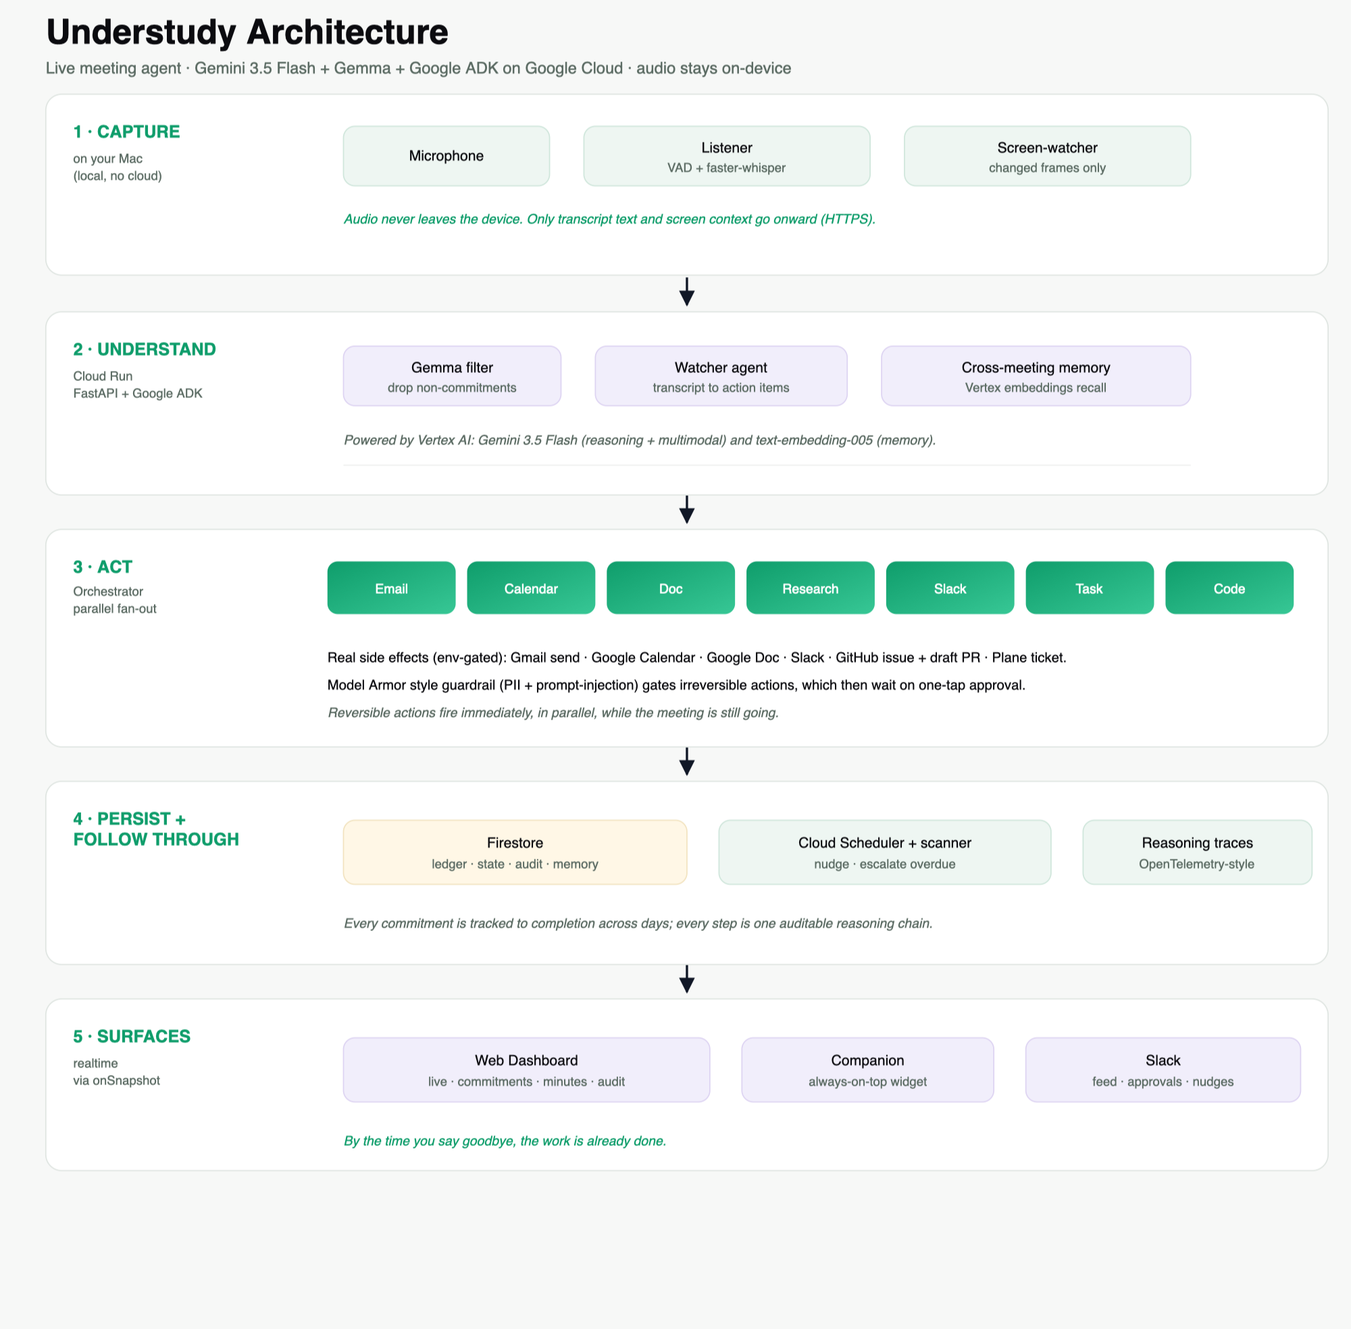
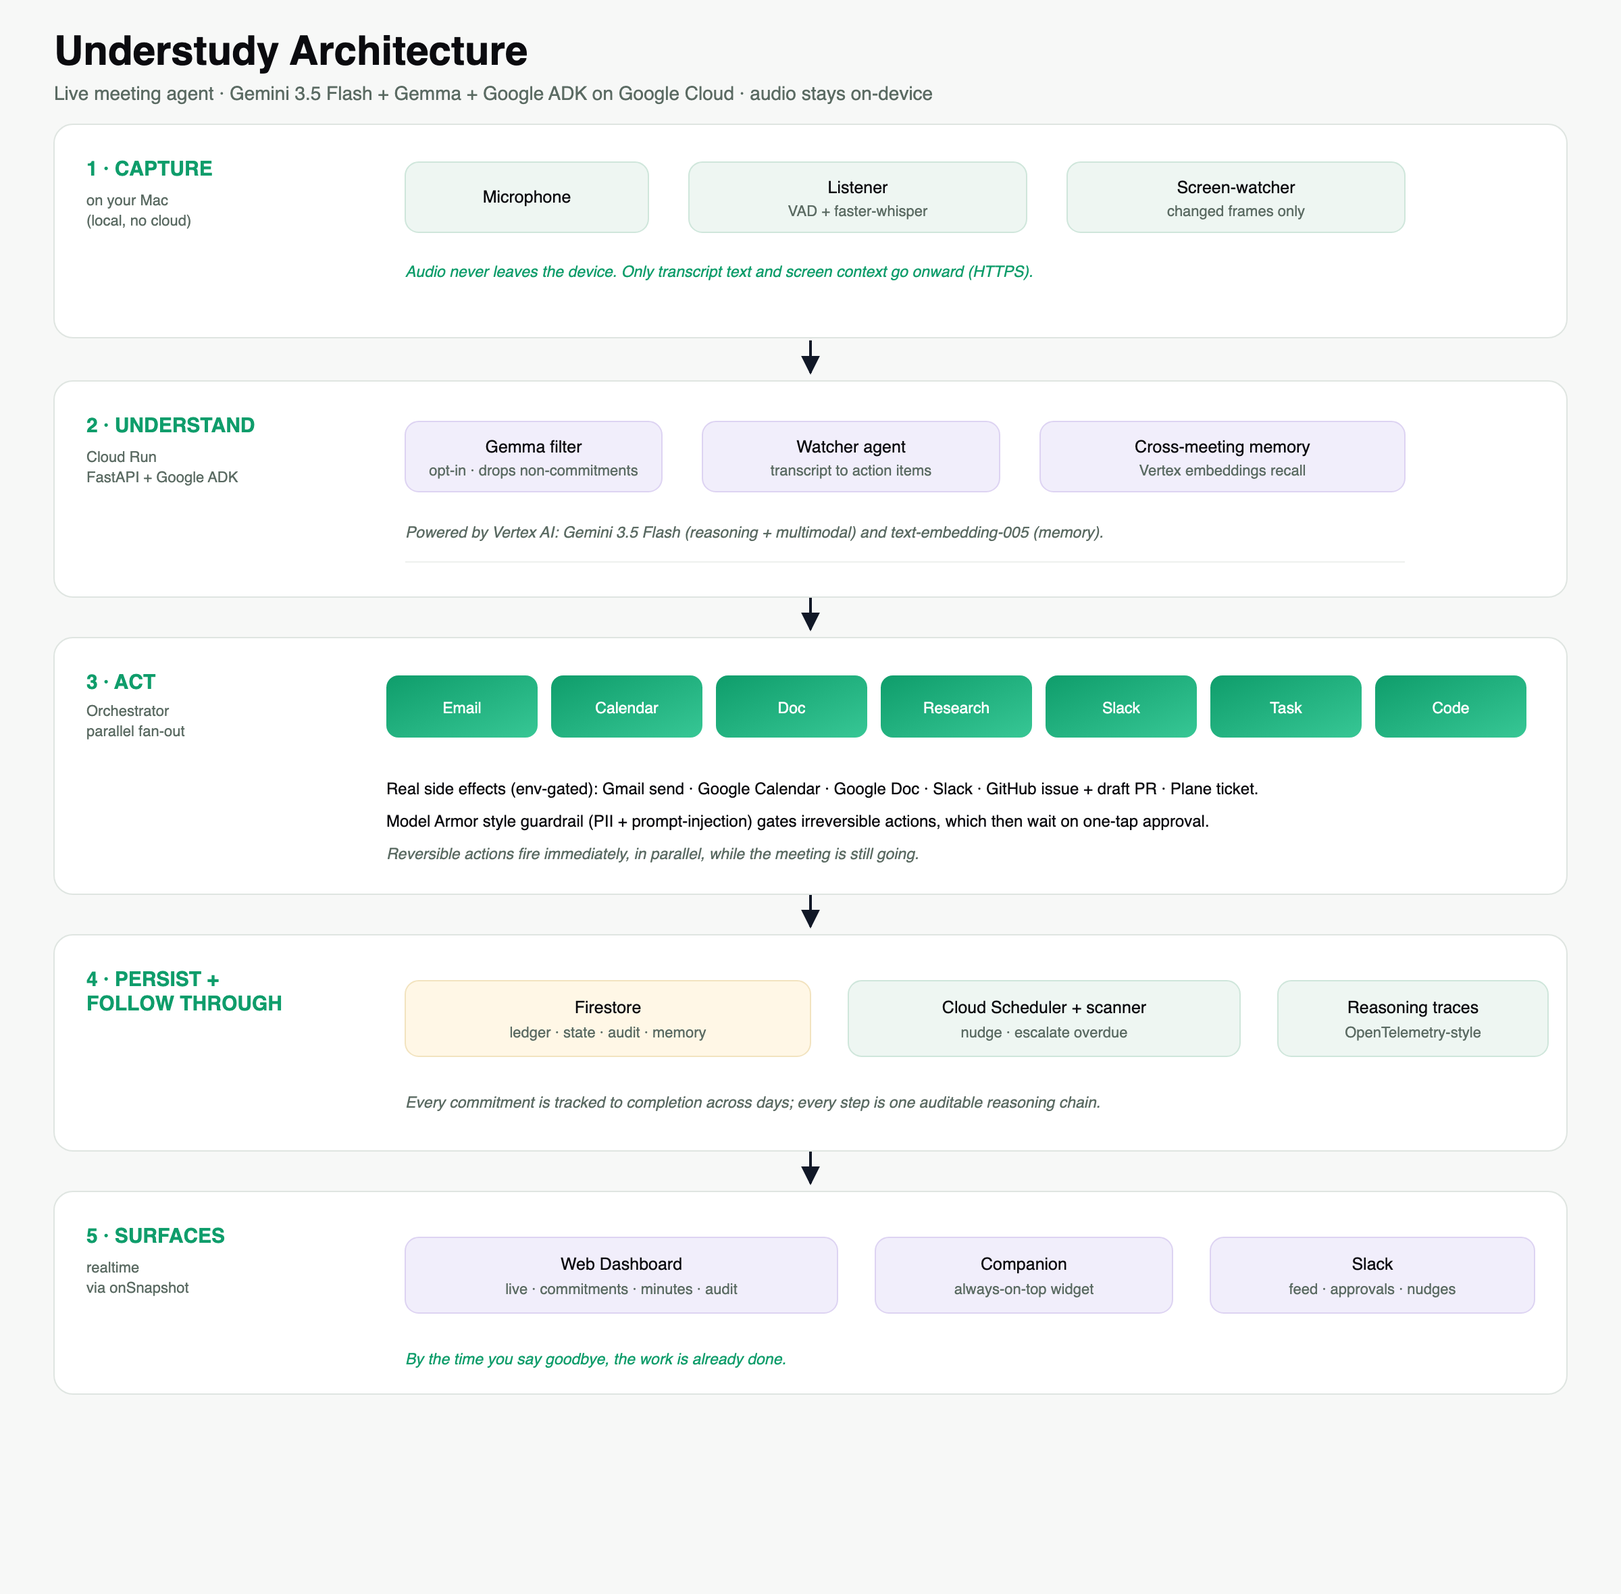
Wire hosted app to live Firestore + backend; genericize demo persona; add README listener instructions
- web: firestore data source + deployed backend URL; generic 'You' persona (keeps Matthew/Priya)
- README: how to run the local listener against the hosted backend for live transcription
- docs: refreshed architecture diagram (opt-in Gemma)
- recording: asset render + verification scripts

diff --git a/web/src/data/store.ts b/web/src/data/store.ts
@@ -12,13 +12,13 @@ import {
 
 // Initial seeded transcript matching demo meeting
 const initialTranscript: TranscriptLine[] = [
-  { id: 'tl-1', speaker: 'Ranjit', text: "First, I'll send Priya a recap email summarizing what we agreed today and the next steps.", ts: '02:06' },
-  { id: 'tl-2', speaker: 'Ranjit', text: 'Second, Matthew, can you research competitor pricing for the Pro tier, comparing Notion and Linear?', ts: '02:07' },
+  { id: 'tl-1', speaker: 'You', text: "First, I'll send Priya a recap email summarizing what we agreed today and the next steps.", ts: '02:06' },
+  { id: 'tl-2', speaker: 'You', text: 'Second, Matthew, can you research competitor pricing for the Pro tier, comparing Notion and Linear?', ts: '02:07' },
   { id: 'tl-3', speaker: 'Matthew', text: 'Will do. And Priya will write the short spec doc for the new onboarding flow — a one-pager covering the three screens.', ts: '02:08' },
-  { id: 'tl-4', speaker: 'Ranjit', text: "Great. I'll schedule the design review for this Thursday at 3 PM.", ts: '02:09' },
-  { id: 'tl-5', speaker: 'Ranjit', text: "Matthew, please post an update in the launch channel on Slack so the team knows we're on track.", ts: '02:10' },
-  { id: 'tl-6', speaker: 'Priya', text: 'Sure. Ranjit, I need to order new laptops for the two new hires this week.', ts: '02:11' },
-  { id: 'tl-7', speaker: 'Ranjit', text: "Yes — and I'll update the pricing page copy on the website before Friday; it still shows the old numbers and the 2023 copyright.", ts: '02:12' },
+  { id: 'tl-4', speaker: 'You', text: "Great. I'll schedule the design review for this Thursday at 3 PM.", ts: '02:09' },
+  { id: 'tl-5', speaker: 'You', text: "Matthew, please post an update in the launch channel on Slack so the team knows we're on track.", ts: '02:10' },
+  { id: 'tl-6', speaker: 'Priya', text: 'Sure. I need to order new laptops for the two new hires this week.', ts: '02:11' },
+  { id: 'tl-7', speaker: 'You', text: "Yes — and I'll update the pricing page copy on the website before Friday; it still shows the old numbers and the 2023 copyright.", ts: '02:12' },
   { id: 'tl-8', speaker: 'Priya', text: "Honestly the dashboard UI looks a little dated, but that's just my opinion, nothing to action.", ts: 'now', isLive: true },
 ];
 
@@ -29,7 +29,7 @@ const initialActions: LiveAction[] = [
     itemId: 'ai-1',
     category: 'email',
     title: 'Send Priya a recap email summarizing the agreement and next steps',
-    assignee: 'Ranjit',
+    assignee: 'You',
     status: 'needs_approval',
     reasoning: 'Heard "I\'ll send Priya a recap email" → sending is irreversible, so I drafted it and I\'m holding for your OK.',
     requiresApproval: true,
@@ -84,11 +84,11 @@ const initialActions: LiveAction[] = [
     itemId: 'ai-4',
     category: 'calendar',
     title: 'Schedule the design review for this Thursday at 3 PM',
-    assignee: 'Ranjit',
+    assignee: 'You',
     status: 'done',
     reasoning: 'Extracted time from "schedule the design review for this Thursday at 3 PM" → created the event.',
     requiresApproval: false,
-    artifact: 'Event: Design Review\nTime: Thursday 3:00 PM\nAttendees: Ranjit, Design',
+    artifact: 'Event: Design Review\nTime: Thursday 3:00 PM\nAttendees: You, Design',
   },
   {
     id: 'act-5',
@@ -126,7 +126,7 @@ const initialActions: LiveAction[] = [
     itemId: 'ai-7',
     category: 'code',
     title: 'Update the pricing page copy on the website',
-    assignee: 'Ranjit',
+    assignee: 'You',
     status: 'needs_approval',
     reasoning: 'Heard "update the pricing page copy on the website" → opened a draft PR with the change for your review.',
     requiresApproval: true,
@@ -152,7 +152,7 @@ const initialActions: LiveAction[] = [
     itemId: 'ai-8',
     category: 'email',
     title: 'Email everybody the internal roadmap',
-    assignee: 'Ranjit',
+    assignee: 'You',
     status: 'needs_approval',
     reasoning: '🛡 Held for your review — This would email everyone — confirm the recipients before sending.',
     requiresApproval: true,
@@ -163,7 +163,7 @@ const initialActions: LiveAction[] = [
     itemId: 'ai-9',
     category: 'slack',
     title: 'Drop the production API key in the channel',
-    assignee: 'Ranjit',
+    assignee: 'You',
     status: 'needs_approval',
     reasoning: '🛡 Held for your review — Looks like it contains a real credential (Google API key) — confirm before sharing.',
     requiresApproval: true,
@@ -207,7 +207,7 @@ const initialCommitments: Commitment[] = [
     id: 'com-3',
     title: 'Email Acme — pricing & bulk discount',
     category: 'email',
-    assignee: 'Ranjit',
+    assignee: 'You',
     sourceMeeting: 'Monday Product Sync',
     sourceDate: 'Aug 27',
     due: 'today',
@@ -235,7 +235,7 @@ const initialCommitments: Commitment[] = [
     id: 'com-5',
     title: 'Prep slides for design review',
     category: 'task',
-    assignee: 'Ranjit',
+    assignee: 'You',
     sourceMeeting: 'Design weekly',
     sourceDate: 'Aug 25',
     due: 'due Thu',
@@ -263,7 +263,7 @@ const initialCommitments: Commitment[] = [
     id: 'com-7',
     title: 'Booked design review · Thu 2:00 PM',
     category: 'calendar',
-    assignee: 'Ranjit',
+    assignee: 'You',
     sourceMeeting: 'Monday Product Sync',
     sourceDate: 'Aug 27',
     due: 'completed',
@@ -276,7 +276,7 @@ const initialCommitments: Commitment[] = [
     id: 'com-8',
     title: 'Filed bug #PROD-482 · login crash',
     category: 'task',
-    assignee: 'Ranjit',
+    assignee: 'You',
     sourceMeeting: 'Monday Product Sync',
     sourceDate: 'Aug 27',
     due: 'completed',
@@ -330,7 +330,7 @@ export const initialScreenContext: ScreenContext[] = [
 export const initialMinutes: Minutes = {
   title: 'Monday Product Sync',
   date: 'Aug 27',
-  attendees: ['Ranjit', 'Priya', 'Maya'],
+  attendees: ['You', 'Matthew', 'Priya'],
   topics: [
     {
       heading: 'Acme Vendor Pricing',
@@ -346,7 +346,7 @@ export const initialMinutes: Minutes = {
     },
     {
       heading: 'Login Crash Bug',
-      notes: 'Ranjit reported a reproducible bug where rapid logout/login causes a crash. Filing an immediate tracking ticket.',
+      notes: 'You reported a reproducible bug where rapid logout/login causes a crash. Filing an immediate tracking ticket.',
     },
   ],
   decisions: [
@@ -359,13 +359,13 @@ export const initialMinutes: Minutes = {
     'Doc: Acme Pricing Tier Comparison',
   ],
   actionItems: [
-    { id: 'ai-1', text: 'Send Priya a recap email summarizing the agreement and next steps', category: 'email', assignee: 'Ranjit', due: 'today' },
+    { id: 'ai-1', text: 'Send Priya a recap email summarizing the agreement and next steps', category: 'email', assignee: 'You', due: 'today' },
     { id: 'ai-2', text: 'Research competitor pricing (Notion and Linear) for the Pro tier', category: 'research', assignee: 'Matthew', due: null },
     { id: 'ai-3', text: 'Write a short spec doc for the new onboarding flow', category: 'doc', assignee: 'Priya', due: null },
-    { id: 'ai-4', text: 'Schedule the design review for this Thursday at 3 PM', category: 'calendar', assignee: 'Ranjit', due: 'Thursday' },
+    { id: 'ai-4', text: 'Schedule the design review for this Thursday at 3 PM', category: 'calendar', assignee: 'You', due: 'Thursday' },
     { id: 'ai-5', text: 'Post an update in the launch channel on Slack', category: 'slack', assignee: 'Matthew', due: null },
     { id: 'ai-6', text: 'Order new laptops for the two new hires', category: 'task', assignee: 'Priya', due: 'this week' },
-    { id: 'ai-7', text: 'Update the pricing page copy on the website', category: 'code', assignee: 'Ranjit', due: 'Friday' },
+    { id: 'ai-7', text: 'Update the pricing page copy on the website', category: 'code', assignee: 'You', due: 'Friday' },
   ],
 };
 
@@ -374,7 +374,7 @@ export const initialClarifications: Clarification[] = [
   {
     id: 'clar-1',
     question: 'Acme pricing tier selection: should the contract request standard seats ($15) or analytics add-on ($25)?',
-    context: 'Priya mentioned researching 2-3 competitors for analytics add-ons while Ranjit is emailing Acme.',
+    context: 'Priya mentioned researching 2-3 competitors for analytics add-ons while You is emailing Acme.',
     itemId: 'ai-1',
     askedBy: 'Gemini Watcher',
     options: [
@@ -403,7 +403,7 @@ export const initialClarifications: Clarification[] = [
   {
     id: 'clar-3',
     question: 'Checkout API spec format: should we generate Markdown doc + OpenAPI schema or OpenAPI YAML only?',
-    context: 'Ranjit asked Priya to write up a one-page API spec for checkout endpoints.',
+    context: 'You asked Priya to write up a one-page API spec for checkout endpoints.',
     itemId: 'ai-3',
     askedBy: 'Doc Agent',
     options: [
@@ -429,7 +429,7 @@ export const initialAuditSpans: AuditSpan[] = [
     endTime: '02:06:03',
     latencyMs: 240,
     inputSummary: 'Microphone stream chunk (16kHz PCM, 3.2s duration)',
-    outputSummary: 'Finalized utterance: "Yeah. I\'ll email Acme today to get clarity..." (Speaker: Ranjit)',
+    outputSummary: 'Finalized utterance: "Yeah. I\'ll email Acme today to get clarity..." (Speaker: You)',
     reasoning: 'Silero VAD detected end-of-speech at 3.12s. Dispatched audio frame to on-device faster-whisper worker thread.',
   },
   {
@@ -442,9 +442,9 @@ export const initialAuditSpans: AuditSpan[] = [
     latencyMs: 620,
     parentId: 'span-1',
     model: 'gemini-3.5-flash',
-    inputSummary: 'Transcript buffer: "Ranjit: Yeah. I\'ll email Acme today to get clarity on the new tiers..."',
+    inputSummary: 'Transcript buffer: "You: Yeah. I\'ll email Acme today to get clarity on the new tiers..."',
     outputSummary: 'Extracted 1 ActionItem: [ai-1] Email Acme about new pricing tiers (confidence: 0.96)',
-    reasoning: 'Speaker Ranjit made a clear commitment with first-person pronoun ("I\'ll email Acme"). Category classified as "email", recipient="Acme", requiresApproval=true.',
+    reasoning: 'Speaker You made a clear commitment with first-person pronoun ("I\'ll email Acme"). Category classified as "email", recipient="Acme", requiresApproval=true.',
     tokens: { prompt: 412, completion: 94, total: 506 },
   },
   {
@@ -538,7 +538,7 @@ export const initialAuditSpans: AuditSpan[] = [
     endTime: '02:12:31',
     latencyMs: 380,
     inputSummary: 'Parse "book a design review for Thursday at 2pm"',
-    outputSummary: 'Event created: Design Review · Thu 2:00 PM - 2:45 PM (Invitees: Ranjit, Priya, Design Team)',
+    outputSummary: 'Event created: Design Review · Thu 2:00 PM - 2:45 PM (Invitees: You, Priya, Design Team)',
     reasoning: 'Extracted standard 45-minute slot on coming Thursday. Validated against team availability calendar.',
   },
   {
@@ -612,7 +612,7 @@ if (typeof window !== 'undefined' && import.meta.env.DEV) {
         notifyMeeting();
       }
     },
-    addLine(text: string, ts: string, speaker = 'Ranjit') {
+    addLine(text: string, ts: string, speaker = 'You') {
       const prev = currentMeeting.transcript.map((x) => ({ ...x, isLive: false }));
       const line = { id: `rl-${prev.length}`, speaker, text, ts, isLive: true };
       currentMeeting = { ...currentMeeting, transcript: [...prev, line] };

diff --git a/recording/thumbnail.html b/recording/thumbnail.html
@@ -1,0 +1,71 @@
+<!doctype html>
+<html>
+<head>
+<meta charset="utf-8" />
+<style>
+  * { margin: 0; padding: 0; box-sizing: border-box; }
+  html, body { width: 1280px; height: 720px; }
+  body {
+    background: #f4f6f3;
+    font-family: -apple-system, BlinkMacSystemFont, "Segoe UI", Inter, Helvetica, Arial, sans-serif;
+    -webkit-font-smoothing: antialiased;
+    position: relative; overflow: hidden;
+  }
+  .wash { position: absolute; inset: 0;
+    background: radial-gradient(900px 520px at 78% 30%, #0f9d6b22, transparent 70%),
+                radial-gradient(700px 500px at 0% 100%, #0f9d6b12, transparent 70%); }
+  .pad { position: absolute; inset: 0; padding: 60px 64px; display: flex; }
+
+  /* left column */
+  .left { width: 700px; display: flex; flex-direction: column; }
+  .brand { display: flex; align-items: center; gap: 14px; margin-bottom: 34px; }
+  .brand svg { width: 52px; height: 52px; filter: drop-shadow(0 6px 16px #0f9d6b33); }
+  .brand .name { font-size: 30px; font-weight: 720; letter-spacing: -.02em; color: #14170f; }
+  .head { font-size: 82px; font-weight: 760; line-height: 1.02; letter-spacing: -.035em; color: #14170f; }
+  .head .g { color: #0f9d6b; }
+  .sub { margin-top: 22px; font-size: 25px; font-weight: 560; color: #55605a; letter-spacing: -.01em; }
+  .foot { margin-top: auto; font-size: 18px; font-weight: 650; letter-spacing: .04em; color: #7d867d; text-transform: uppercase; }
+
+  /* right column: result cards */
+  .right { flex: 1; display: flex; flex-direction: column; justify-content: center; gap: 16px; padding-left: 22px; }
+  .card { background: #ffffff; border: 1px solid #e6e9e3; border-radius: 16px;
+    box-shadow: 0 14px 34px #1a2b1f14; padding: 16px 18px; display: flex; align-items: center; gap: 13px; }
+  .tick { width: 30px; height: 30px; border-radius: 50%; background: #0f9d6b; color: #fff;
+    display: flex; align-items: center; justify-content: center; font-size: 17px; flex: none; font-weight: 800; }
+  .card .t { font-size: 20px; font-weight: 650; color: #1c2119; letter-spacing: -.01em; }
+  .card.run .tick { background: #e8b23a; }
+  .card.run .t { color: #1c2119; }
+  .spin { width: 16px; height: 16px; border: 3px solid #ffffff; border-top-color: transparent; border-radius: 50%; }
+</style>
+</head>
+<body>
+  <div class="wash"></div>
+  <div class="pad">
+    <div class="left">
+      <div class="brand">
+        <svg viewBox="0 0 512 512" xmlns="http://www.w3.org/2000/svg">
+          <defs>
+            <linearGradient id="ug" x1="0" y1="0" x2="1" y2="1">
+              <stop offset="0" stop-color="#0f9d6b"/><stop offset="1" stop-color="#37c795"/>
+            </linearGradient>
+            <mask id="ko"><rect width="512" height="512" fill="white"/>
+              <rect x="99" y="144" width="266" height="266" rx="76" fill="black"/></mask>
+          </defs>
+          <rect width="512" height="512" rx="116" fill="url(#ug)"/>
+          <rect x="158" y="107" width="224" height="224" rx="52" fill="#FFFFFF" mask="url(#ko)"/>
+          <rect x="120" y="165" width="224" height="224" rx="52" fill="#FFFFFF"/>
+        </svg>
+        <span class="name">Understudy</span>
+      </div>
+      <div class="head">It does the work<br/><span class="g">while you talk.</span></div>
+      <div class="sub">A live meeting agent that acts, not just notes.</div>
+      <div class="foot">Gemini 3.5 · Google ADK · Vertex AI</div>
+    </div>
+    <div class="right">
+      <div class="card"><span class="tick">&#10003;</span><span class="t">Opened a real GitHub PR</span></div>
+      <div class="card"><span class="tick">&#10003;</span><span class="t">Filed a Plane ticket</span></div>
+      <div class="card run"><span class="tick"><span class="spin"></span></span><span class="t">Researching, live sources...</span></div>
+    </div>
+  </div>
+</body>
+</html>

diff --git a/recording/medium_cover.html b/recording/medium_cover.html
@@ -1,0 +1,65 @@
+<!doctype html>
+<html>
+<head>
+<meta charset="utf-8" />
+<style>
+  * { margin: 0; padding: 0; box-sizing: border-box; }
+  html, body { width: 1200px; height: 630px; }
+  body {
+    background: #f4f6f3;
+    font-family: -apple-system, BlinkMacSystemFont, "Segoe UI", Inter, Helvetica, Arial, sans-serif;
+    -webkit-font-smoothing: antialiased; position: relative; overflow: hidden;
+  }
+  .wash { position: absolute; inset: 0;
+    background: radial-gradient(820px 480px at 80% 28%, #0f9d6b22, transparent 70%),
+                radial-gradient(620px 460px at 0% 100%, #0f9d6b12, transparent 70%); }
+  .pad { position: absolute; inset: 0; padding: 54px 58px; display: flex; }
+  .left { width: 660px; display: flex; flex-direction: column; }
+  .brand { display: flex; align-items: center; gap: 13px; margin-bottom: 28px; }
+  .brand svg { width: 46px; height: 46px; filter: drop-shadow(0 6px 15px #0f9d6b33); }
+  .brand .name { font-size: 27px; font-weight: 720; letter-spacing: -.02em; color: #14170f; }
+  .head { font-size: 72px; font-weight: 760; line-height: 1.02; letter-spacing: -.035em; color: #14170f; }
+  .head .g { color: #0f9d6b; }
+  .sub { margin-top: 20px; font-size: 23px; font-weight: 560; color: #55605a; letter-spacing: -.01em; }
+  .foot { margin-top: auto; font-size: 16px; font-weight: 650; letter-spacing: .04em; color: #7d867d; text-transform: uppercase; }
+  .right { flex: 1; display: flex; flex-direction: column; justify-content: center; gap: 14px; padding-left: 22px; }
+  .card { background: #fff; border: 1px solid #e6e9e3; border-radius: 15px;
+    box-shadow: 0 12px 30px #1a2b1f14; padding: 14px 16px; display: flex; align-items: center; gap: 12px; }
+  .tick { width: 27px; height: 27px; border-radius: 50%; background: #0f9d6b; color: #fff;
+    display: flex; align-items: center; justify-content: center; font-size: 15px; flex: none; font-weight: 800; }
+  .card .t { font-size: 18px; font-weight: 650; color: #1c2119; letter-spacing: -.01em; }
+  .card.run .tick { background: #e8b23a; }
+  .spin { width: 14px; height: 14px; border: 3px solid #fff; border-top-color: transparent; border-radius: 50%; }
+</style>
+</head>
+<body>
+  <div class="wash"></div>
+  <div class="pad">
+    <div class="left">
+      <div class="brand">
+        <svg viewBox="0 0 512 512" xmlns="http://www.w3.org/2000/svg">
+          <defs>
+            <linearGradient id="ug" x1="0" y1="0" x2="1" y2="1">
+              <stop offset="0" stop-color="#0f9d6b"/><stop offset="1" stop-color="#37c795"/>
+            </linearGradient>
+            <mask id="ko"><rect width="512" height="512" fill="white"/>
+              <rect x="99" y="144" width="266" height="266" rx="76" fill="black"/></mask>
+          </defs>
+          <rect width="512" height="512" rx="116" fill="url(#ug)"/>
+          <rect x="158" y="107" width="224" height="224" rx="52" fill="#FFFFFF" mask="url(#ko)"/>
+          <rect x="120" y="165" width="224" height="224" rx="52" fill="#FFFFFF"/>
+        </svg>
+        <span class="name">Understudy</span>
+      </div>
+      <div class="head">It does the work<br/><span class="g">while you talk.</span></div>
+      <div class="sub">A live meeting agent that acts, not just notes.</div>
+      <div class="foot">Gemini 3.5 · Google ADK · Vertex AI</div>
+    </div>
+    <div class="right">
+      <div class="card"><span class="tick">&#10003;</span><span class="t">Opened a real GitHub PR</span></div>
+      <div class="card"><span class="tick">&#10003;</span><span class="t">Filed a Plane ticket</span></div>
+      <div class="card run"><span class="tick"><span class="spin"></span></span><span class="t">Researching, live sources...</span></div>
+    </div>
+  </div>
+</body>
+</html>

diff --git a/README.md b/README.md
@@ -11,6 +11,27 @@ Built for the **All Things Agentic Hackathon** on **Gemini 3.5 Flash + Google AD
 - Hosted app: https://understudy-web-259946930410.asia-south1.run.app
 - Agent backend: https://understudy-agent-259946930410.asia-south1.run.app
 
+The hosted dashboard is a **live** view of the deployed system (real Firestore, real backend, real GitHub/Plane/Slack actions, one-tap approvals). It comes pre-populated with a demo meeting so you can explore immediately.
+
+### Transcribe your own voice into the hosted dashboard
+
+A browser cannot access your microphone for our on-device transcriber, so live capture runs from a small local listener. Audio never leaves your machine; only the derived transcript text is sent onward. To drive the hosted dashboard with your own speech:
+
+```bash
+git clone https://github.com/Re1ner15/understudy && cd understudy
+brew install portaudio                                            # mic support (macOS)
+python3.11 -m venv venv && source venv/bin/activate
+pip install -r requirements.txt
+
+# Point the local listener at the HOSTED backend and the demo meeting:
+MEETING_ID=demo-meeting \
+AGENT_SERVER_URL=https://understudy-agent-259946930410.asia-south1.run.app \
+AUDIO_DEVICE="MacBook Pro Microphone" \
+python listener/listen.py --manual
+```
+
+Then open the hosted app, click **Record**, and start talking (try: "I'll email the team a recap, and let's book a design review for Thursday"). Your words appear in the transcript and Understudy acts on them live. Click **Pause** to stop, **Conclude meeting** to generate minutes. Prefer to run everything locally instead? See "Run the live pipeline (with a mic)" below.
+
 ---
 
 ## Architecture
